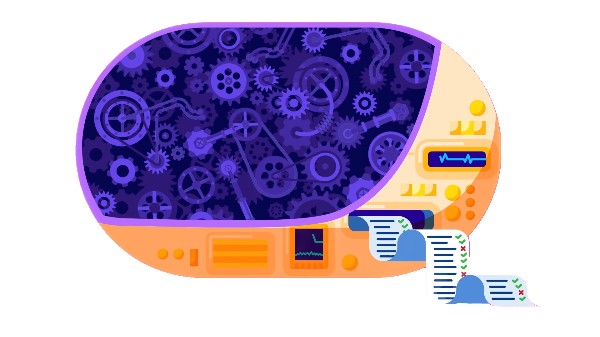
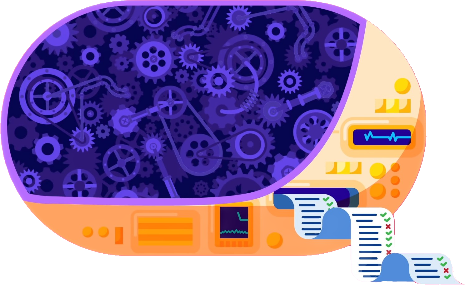
Removed extra transparent pixels around images

diff --git a/css/style.css b/css/style.css
@@ -193,5 +193,5 @@ a:hover {
 }
 
 #answer img {
-  width: 50vw;
+  width: 18vw;
 }
